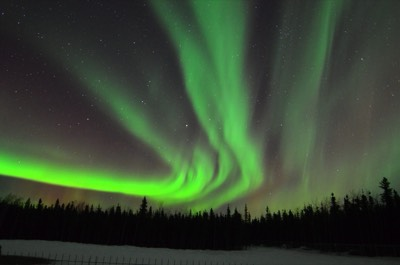
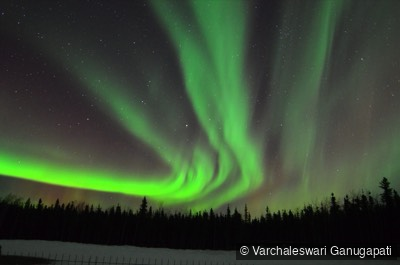
update blog

Changed region(s): [[0.57, 0.9358, 0.99, 0.9962]]

diff --git a/scripts/watermark-images.py b/scripts/watermark-images.py
@@ -1,0 +1,81 @@
+#!/usr/bin/env python3
+"""
+Add a visible copyright watermark to all images in static/img/.
+Usage: python3 scripts/watermark-images.py
+Requires: pip install Pillow
+"""
+import os
+from pathlib import Path
+
+try:
+    from PIL import Image, ImageDraw, ImageFont
+except ImportError:
+    print("Pillow is required. Run: pip3 install Pillow")
+    exit(1)
+
+# Your name for the watermark
+COPYRIGHT_TEXT = "© Varchaleswari Ganugapati"
+IMG_DIR = Path(__file__).resolve().parent.parent / "static" / "img"
+EXTENSIONS = {".jpg", ".jpeg", ".png", ".JPG", ".JPEG", ".PNG"}
+# Skip tiny icons / UI assets if you add any later
+SKIP_NAMES = {"favicon.ico", "favicon.png"}
+
+
+def add_watermark(image_path: Path) -> bool:
+    try:
+        img = Image.open(image_path).convert("RGBA")
+    except Exception as e:
+        print(f"  Skip {image_path.name}: {e}")
+        return False
+
+    w, h = img.size
+    # Scale font with image size (roughly 2–3% of min dimension)
+    font_size = max(12, min(w, h) // 40)
+    padding = max(8, min(w, h) // 80)
+
+    # Try a nice font; fall back to default
+    try:
+        font = ImageFont.truetype("/System/Library/Fonts/Helvetica.ttc", font_size)
+    except Exception:
+        try:
+            font = ImageFont.truetype("/usr/share/fonts/truetype/dejavu/DejaVuSans.ttf", font_size)
+        except Exception:
+            font = ImageFont.load_default()
+
+    overlay = Image.new("RGBA", img.size, (0, 0, 0, 0))
+    draw = ImageDraw.Draw(overlay)
+    # Get text bbox for positioning (bottom-right)
+    bbox = draw.textbbox((0, 0), COPYRIGHT_TEXT, font=font)
+    tw = bbox[2] - bbox[0]
+    th = bbox[3] - bbox[1]
+    x = w - tw - padding
+    y = h - th - padding
+
+    # Semi-transparent dark background strip for readability
+    draw.rectangle([x - 4, y - 2, x + tw + 4, y + th + 2], fill=(0, 0, 0, 140))
+    draw.text((x, y), COPYRIGHT_TEXT, fill=(255, 255, 255, 230), font=font)
+
+    out = Image.alpha_composite(img, overlay)
+    # Save back as original format (no alpha for JPEG)
+    if image_path.suffix.lower() in {".jpg", ".jpeg"}:
+        out = out.convert("RGB")
+    out.save(image_path, quality=92, optimize=True)
+    return True
+
+
+def main():
+    if not IMG_DIR.is_dir():
+        print(f"Image directory not found: {IMG_DIR}")
+        return
+    count = 0
+    for path in sorted(IMG_DIR.iterdir()):
+        if path.name in SKIP_NAMES or path.suffix not in EXTENSIONS:
+            continue
+        print(f"Watermarking: {path.name}")
+        if add_watermark(path):
+            count += 1
+    print(f"Done. Watermarked {count} image(s).")
+
+
+if __name__ == "__main__":
+    main()
